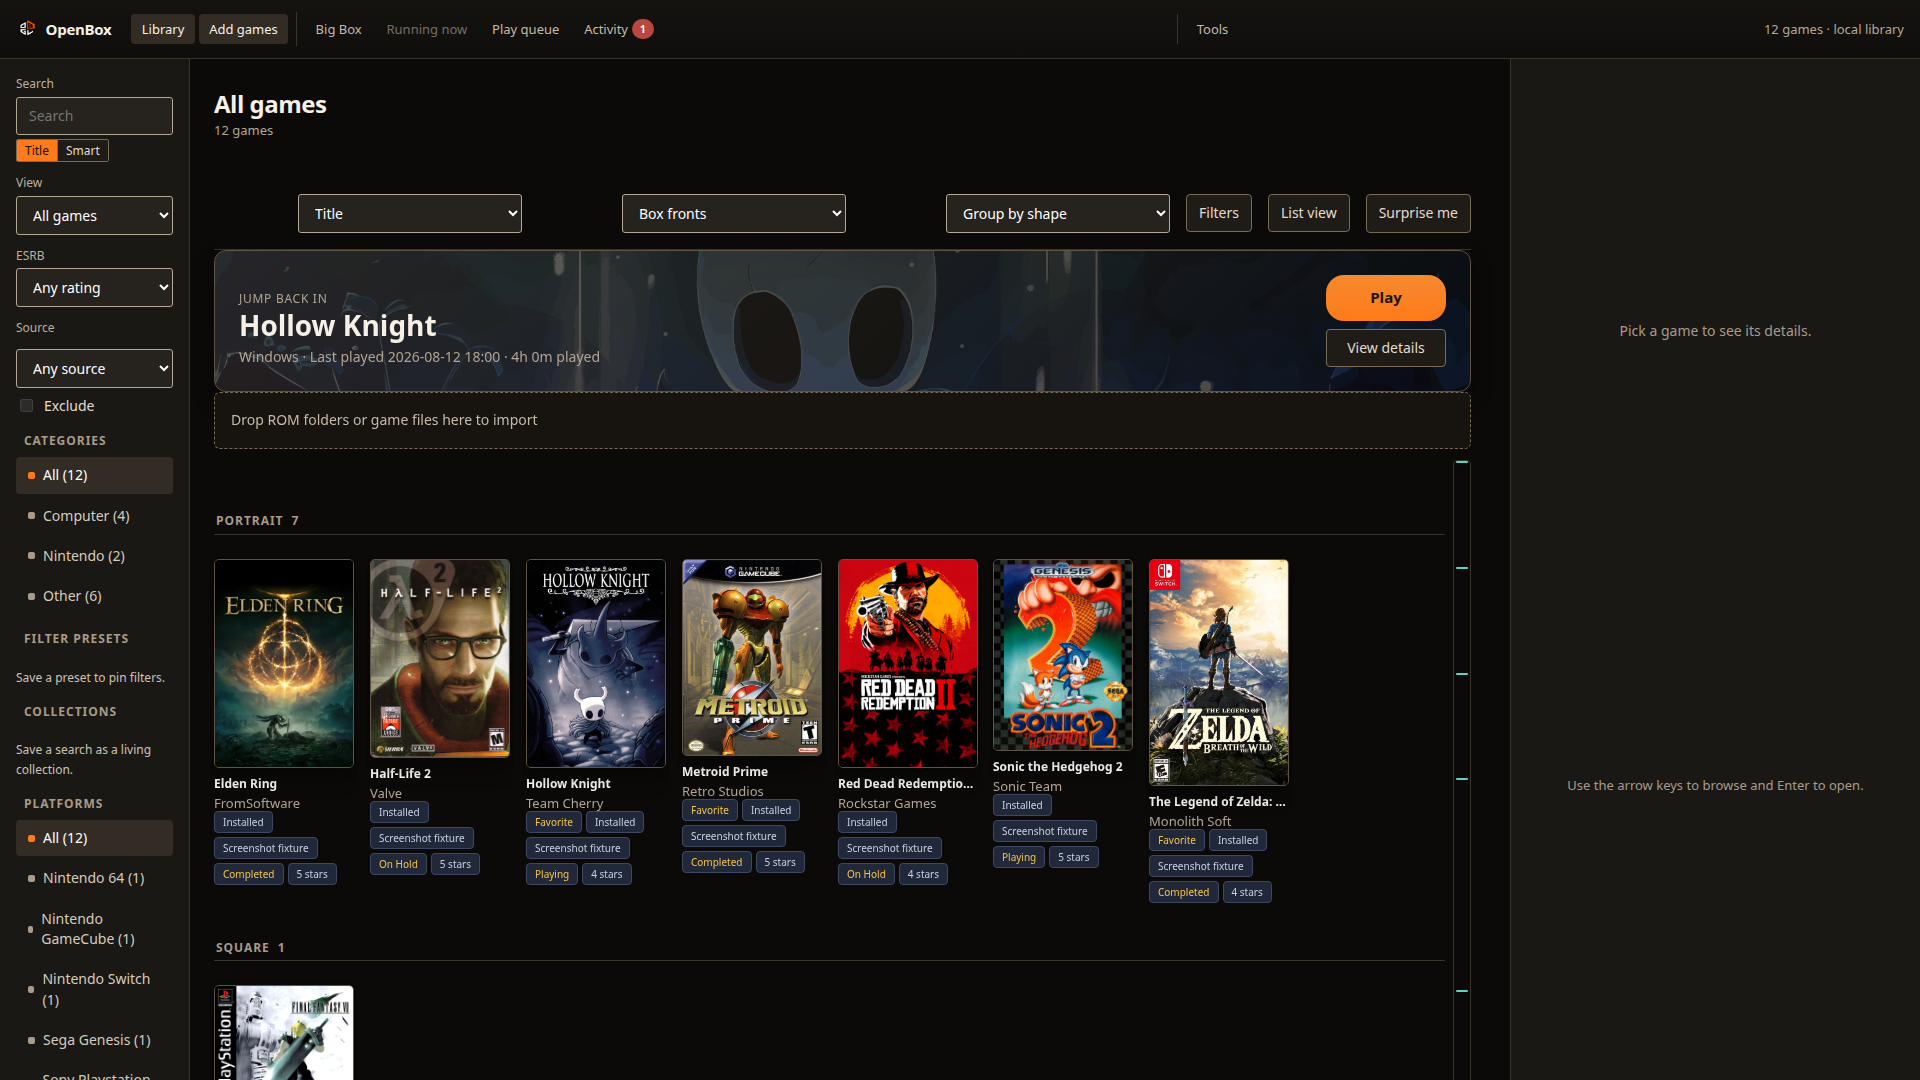
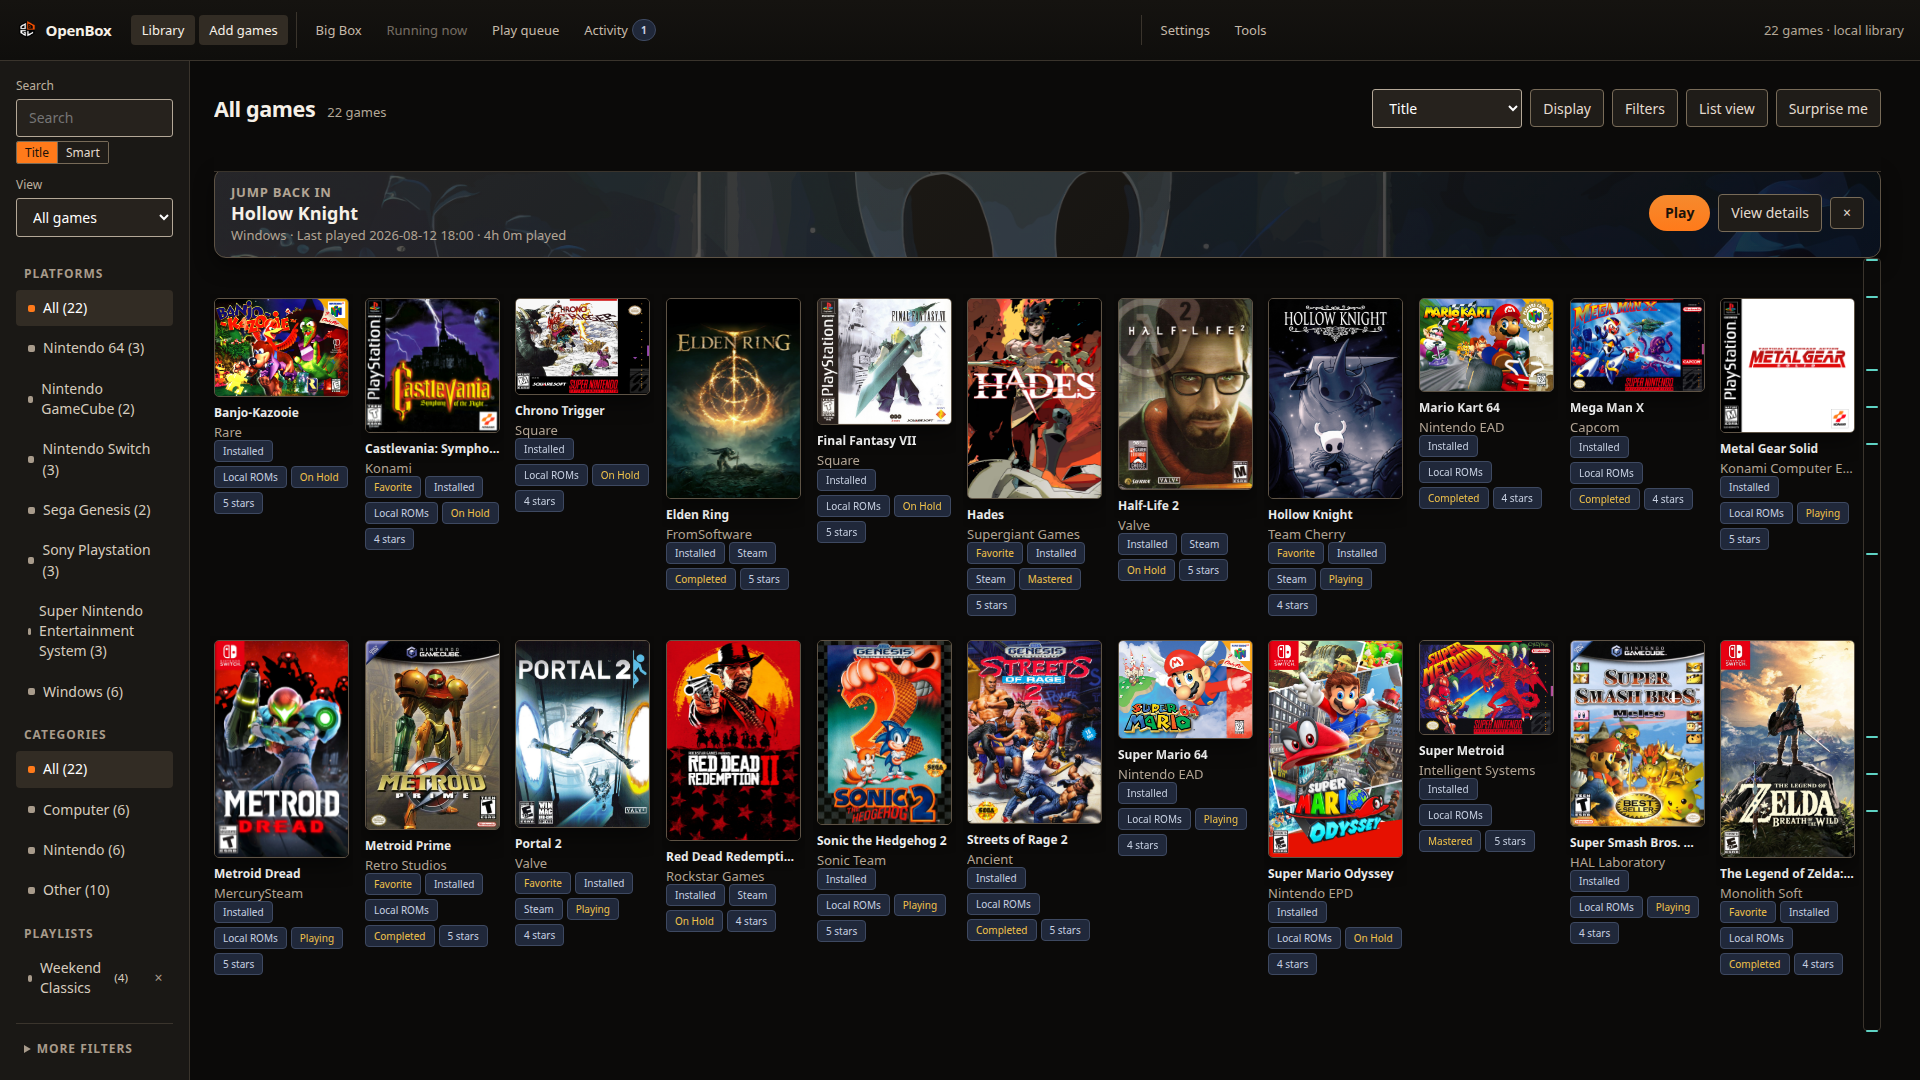
docs: sync the 3.0 screenshots from the app README
Replace the site's library, game detail, Big Box, Constellation, picker,
Wrapped, Mastery, and Game Night captures with the current 3.0 assets from
the application repo. Refresh the library-view and bigbox-mode aliases and
update the showcase/home captions to match the new UI.

diff --git a/content/docs/showcase.md b/content/docs/showcase.md
@@ -7,15 +7,15 @@ description: Real OpenBoxGL setups, library views, and Big Box on Linux.
 
 Real screenshots from the repository, not renders. Regenerate them with `python3 scripts/capture_readme_screenshots.py` after `cd scripts && npm ci` when you need fresh captures. All images are user supplied captures of user supplied games and cover art belongs to its publisher. Cover art and game files are not vendored in the repository or the site. Contributions that add an image must state the source and that you have the right to submit it under the [Developer Certificate of Origin](/project/contributing/#developer-certificate-of-origin).
 
-<ProductShot src="/openbox-screenshot.png" alt="OpenBox library grid with platform filters, grouped covers, and detail pane" caption="Library, grid and list views, platform filters, and the detail pane in one workspace." />
+<ProductShot src="/openbox-screenshot.png" alt="OpenBox 3.0 library view with the compact single-row header, Display popover, top-bar Settings, collapsed More filters sidebar, and auto-collapsed Details pane" caption="Library: the 94 px single-row header, Display popover, top-bar Settings, collapsed More filters, and auto-collapsed empty Details pane." />
 
-<ProductShot src="/openbox-game-detail.png" alt="OpenBox game detail panel with cover art, metadata, and launch controls" caption="Game detail, metadata, ratings, history, hero art, and one click launch." />
+<ProductShot src="/openbox-game-detail.png" alt="OpenBox 3.0 game detail panel for Elden Ring with hero art, one-click Play, close button, and collapsible More actions, Save management, and Launch check cards" caption="Game detail: hero art, one-click Play, streamlined primary actions, collapsible More actions / Save management / Launch check, and a quick close button." />
 
-<ProductShot src="/openbox-bigbox.png" alt="OpenBox Big Box Stage layout with cover art and controller hints" caption="Big Box Stage layout, fullscreen and controller first." />
+<ProductShot src="/openbox-bigbox.png" alt="OpenBox 3.0 Big Box in Stage layout with portrait cover art, Play button, top-bar Exit button, and controller hints" caption="Big Box: fullscreen controller navigation in Stage layout with clean portrait framing and a top-bar Exit button." />
 
 <ProductShot src="/openbox-picker.png" alt="The What should I play? picker with time, mood, familiarity, and player filters" caption="The smart picker narrows the library by time, mood, familiarity, and players — or just surprise me." />
 
-<ProductShot src="/openbox-constellation.png" alt="Library Constellation relationship graph connecting games by platform, series, and source" caption="Library Constellation draws the relationships between your games as a pan and zoom graph." />
+<ProductShot src="/openbox-constellation.png" alt="OpenBox 3.0 Library Constellation graph showing connected game nodes with series, developer, and genre edges" caption="Constellation: an interactive library relationship graph with series, developer, and genre edges." />
 
 <ProductShot src="/openbox-wrapped.png" alt="Your Year in Games report with playtime, sessions, streaks, and top games" caption="Your Year in Games: a printable annual report of playtime, sessions, streaks, and top picks." />
 

diff --git a/DOCS-SWEEP-2026-11-20.md b/DOCS-SWEEP-2026-11-20.md
@@ -134,7 +134,7 @@ These are verified but not fixed in this sweep:
 - **`reference/hardware-matrix`.** The 50k scale statement and battery route are fixed; Windows/macOS hardware rows and minimum-spec guidance are still absent.
 - **`reference/save-archives`, `reference/plugins/hooks`, and some troubleshooting pages.** Python module citations remain; they are behaviorally correct but point at fallback files.
 - **`reference/configuration`** still has some Python-era wording in the credential/`.env` sections and a `STRIPE_SECRET_KEY` allowlist entry with no documented consumer.
-- **Screenshots.** `public/*.png` are pre-3.0 captures; the 3.0 UI redesign needs a fresh capture pass.
+- **Screenshots — fixed.** `public/openbox-*.png` were replaced with the current 3.0 captures from the application repo's `assets/`, and the site's `library-view.png` / `bigbox-mode.png` aliases were refreshed from the same source. The showcase and home captions now match the 3.0 captures.
 - **`content/docs/404.md`** is now redundant with `app/not-found.tsx`; keep it as authored copy or delete it.
 - **`package.json`** does not list `@mdx-js/mdx` directly; `check-mdx.mjs` resolves it transitively through `next-mdx-remote-client`.
 
